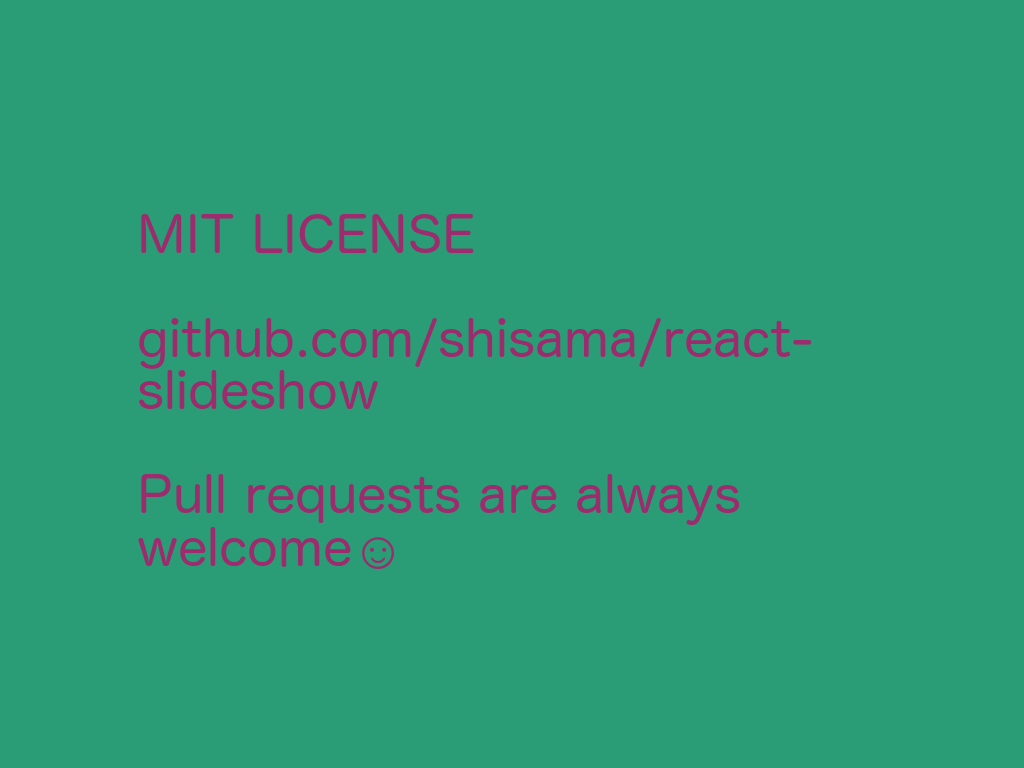
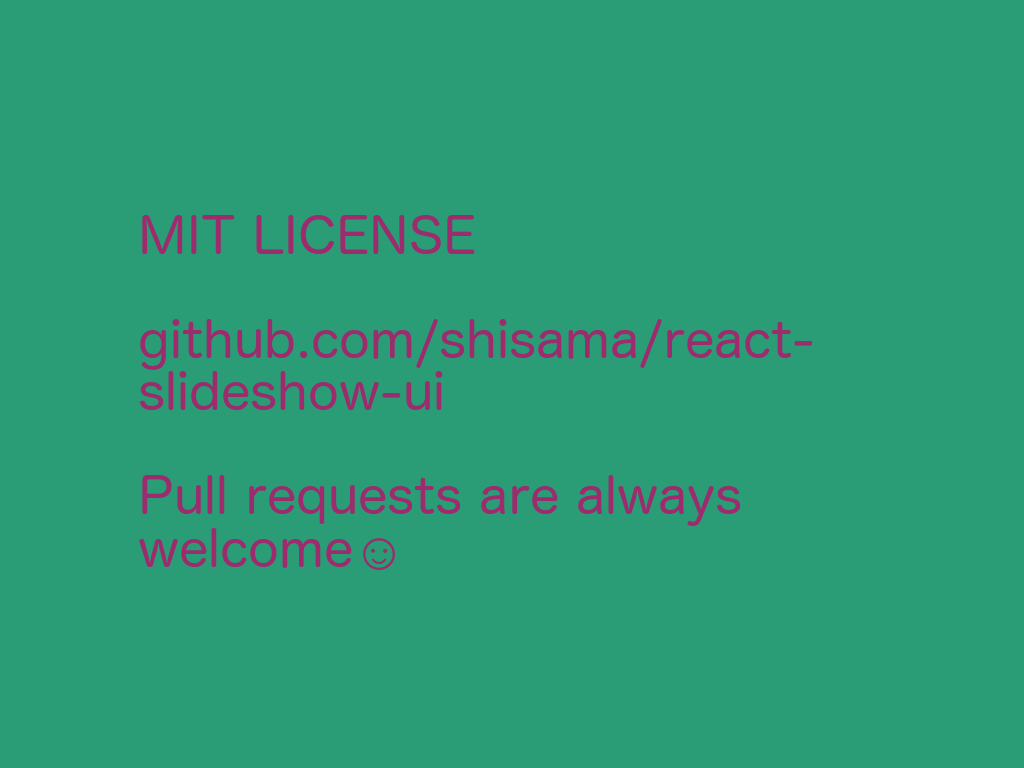
Update Readme and package.json etc

diff --git a/README.md b/README.md
@@ -1,4 +1,5 @@
 # React SlideShow UI
+https://github.com/shisama/react-slideshow-ui
 
 [![GitHub license](https://img.shields.io/badge/license-MIT-blue.svg)](https://github.com/shisama/react-slideshow/blob/master/LICENSE)
 
@@ -47,11 +48,11 @@ render(<App />, document.getElementById('slideshow'));
 |name|type|reqired|description|
 |----|----|-------|-----------|
 |style|Object|Yes|style of this component.|
-|images|Array<string>|Yes|url of image for slide.|
-|prevIcon|Node|No|icon for button to move previous page.|
-|nextIcon|Node|No|icon for button to move next page.|
-|withTimestamp|boolean|No|if you want to add unixtime to img url. i.e. `example.png?1483228800`|
-|pageWillUpdate|function|No|function that is emitted when moving page.|
+|images|Array<string>|Yes|url strings of image for slide.|
+|prevIcon|Dom|No|icon for button to move previous page.|
+|nextIcon|Dom|No|icon for button to move next page.|
+|withTimestamp|boolean|No|set true if you want to add timestamp to img url. i.e. `example.png?1483228800`|
+|pageWillUpdate|function|No|function that is invoked when the page is turned.|
 
 ## License
 This project is licensed under the terms of the
